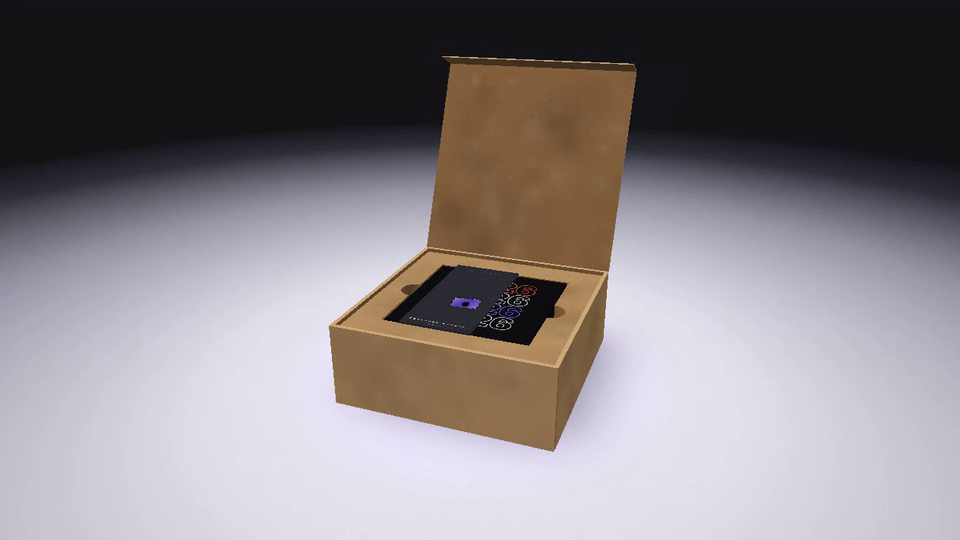
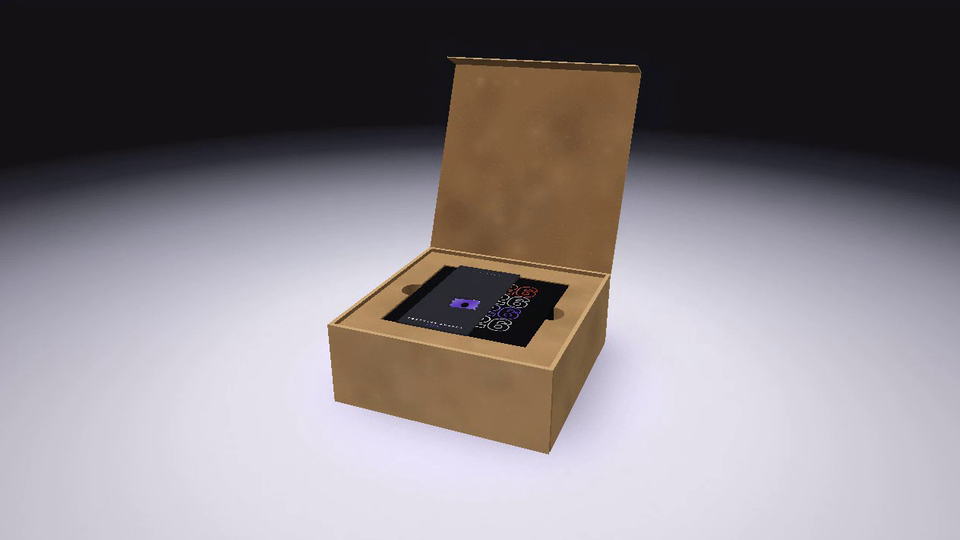
Postmark Awards Unboxing: remove red ribbon (#912)
* Postmark Awards Unboxing 3D: low poly p5 WEBGL render of the recipient box, kraft mailer, debossed insert, black die-cut slip sleeve, purple rigid box and stamp award

Claude-Session: https://claude.ai/code/session_01AHeBdvvqk7JQpSQJTSRnYu

* Postmark Awards Unboxing: glass porcupine award, black box with debossed foil 2026 lid, no outline around the sleeve die cut

Claude-Session: https://claude.ai/code/session_01AHeBdvvqk7JQpSQJTSRnYu

* Postmark Awards Unboxing: volumetric glass porcupine, die cut matches the purple stamp, brand logo on the sleeve, plain mailer interior

Claude-Session: https://claude.ai/code/session_01AHeBdvvqk7JQpSQJTSRnYu

* Postmark Awards Unboxing: remove the red ribbon under the porcupine

Claude-Session: https://claude.ai/code/session_01AHeBdvvqk7JQpSQJTSRnYu

---------

diff --git a/postmark-awards-unboxing/index.html b/postmark-awards-unboxing/index.html
@@ -400,8 +400,6 @@ function drawScene(P, t) {
     POCK_TOP.forEach((t) => F(BM, t.map((p) => pt(p, top)), INK, 1));
     POCK.forEach((q, k) => { const n = POCK[(k + 1) % POCK.length]; F(BM, [pt(q, top), pt(n, top), pt(n, fl), pt(q, fl)], [74, 68, 92]); });
     POCK_FLOOR.forEach((t) => F(BM, t.map((p) => pt(p, fl)), [40, 37, 52]));
-    const ay = fl + 0.4;  // red pull tab on the pocket floor, between the legs, visible through the glass
-    F(BM, [[-9, ay + 0.6, -60], [13, ay + 0.6, -60], [13, ay + 0.6, 62], [2, ay + 0.6, 50], [-9, ay + 0.6, 62]], RED);
   }
   { // the award: the brand mascot in glass. Clear body, tinted glass stamps on the quill tips, a white eye; drawn in the glass pass
     const AM = chain(BM, TR(0, CRAD_TOP - POCKET + AT / 2 + 270 * o.up, 0), RY(0.4 * Math.sin(t * 0.8) * o.hold), RX(o.tilt));
